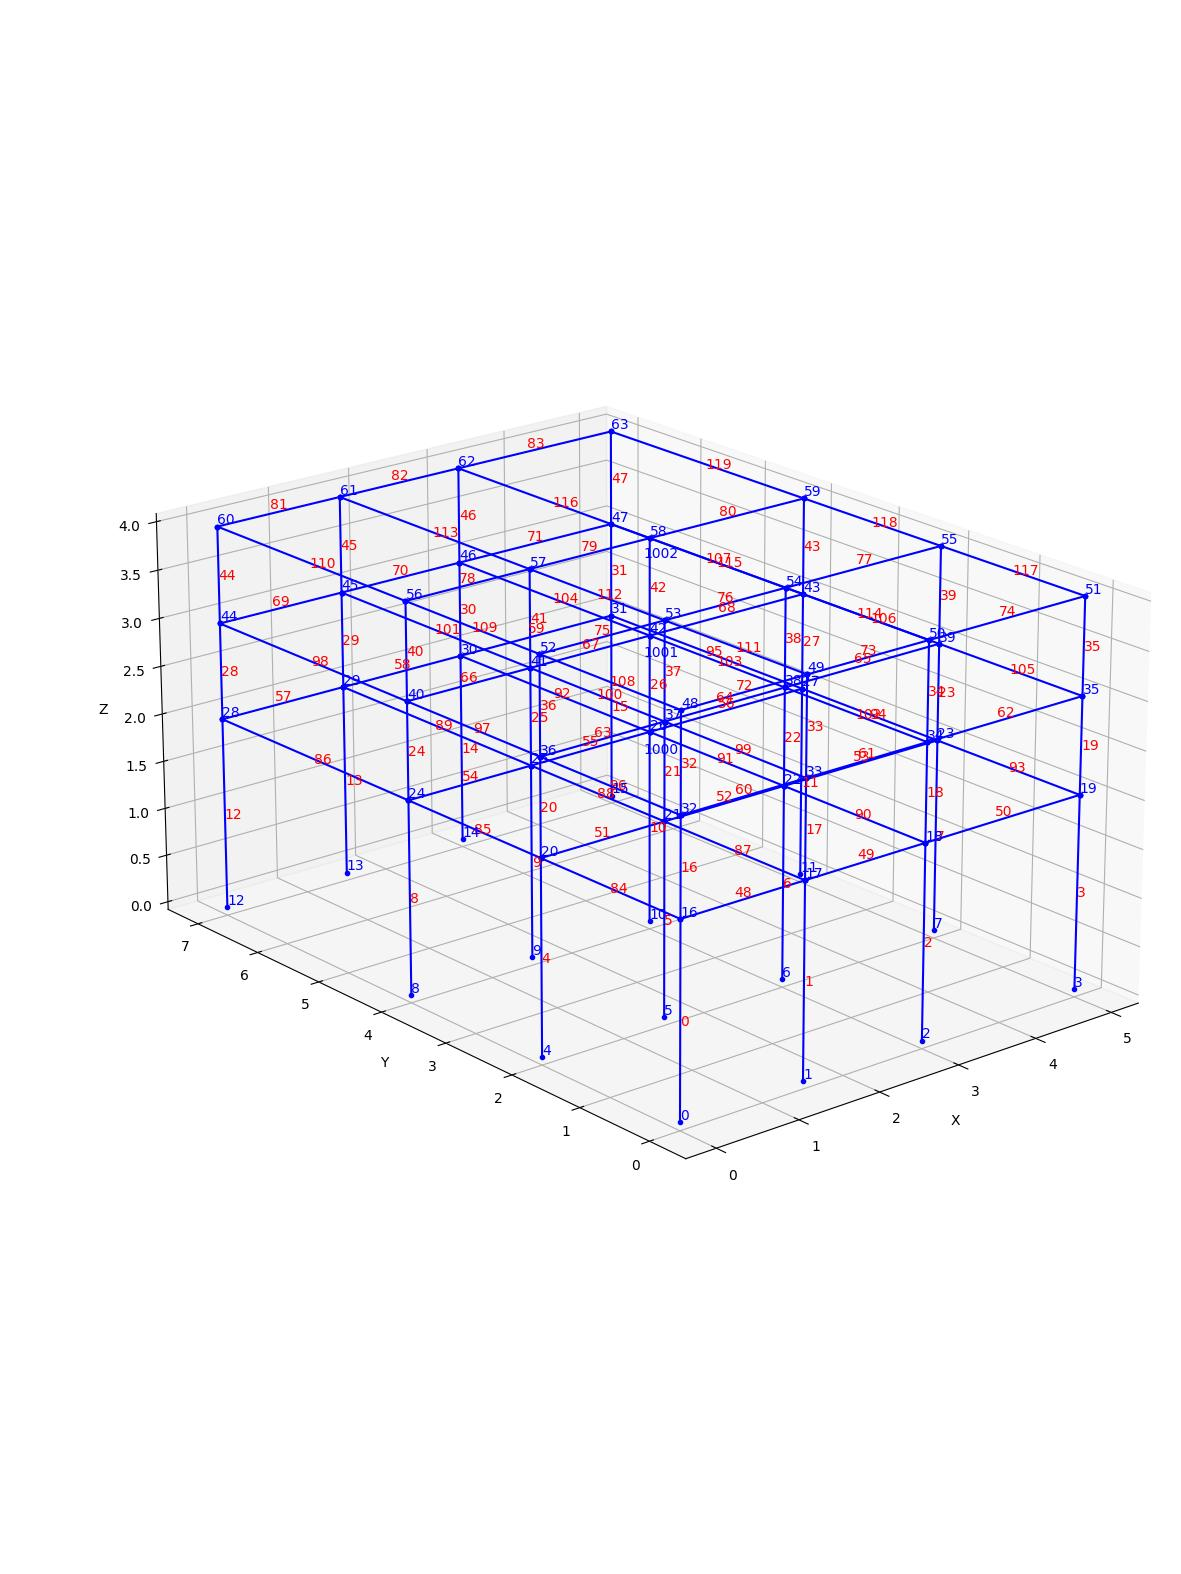
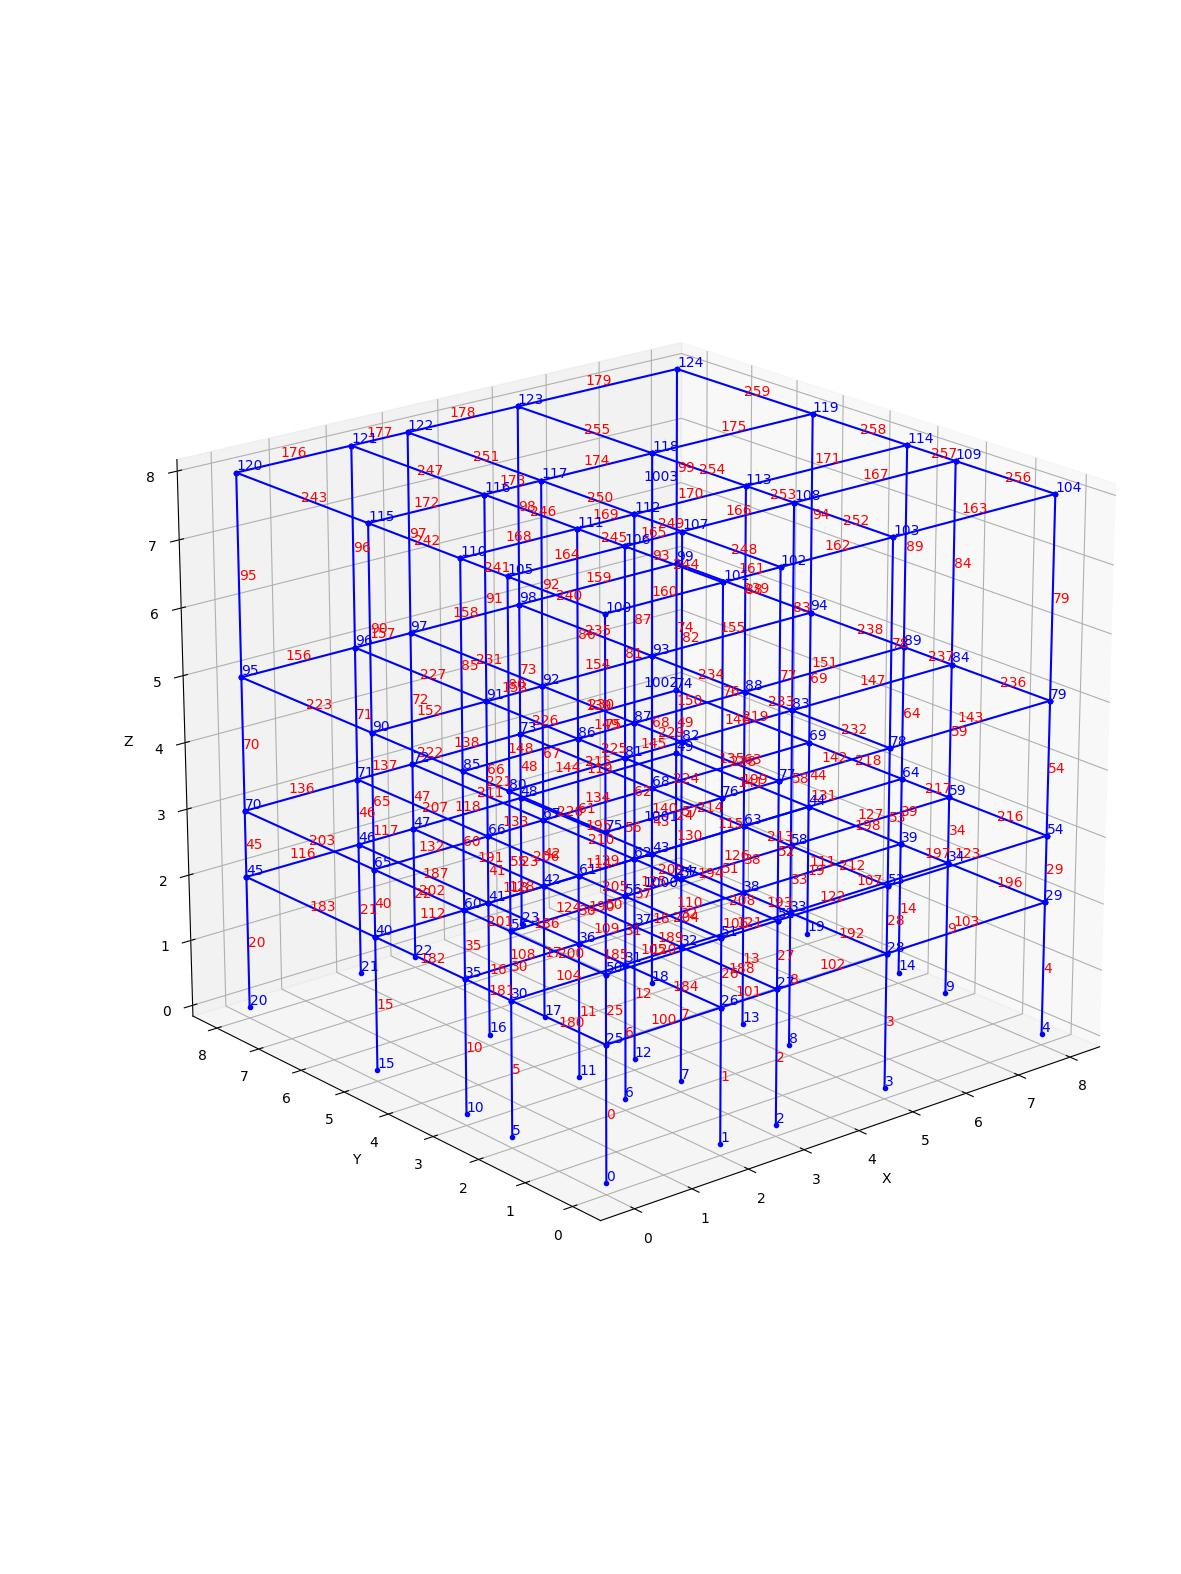
arreglos en condicionales para las grillas

Changed region(s): [[0.1219, 0.2179, 0.945, 0.7783]]

diff --git a/ploteo.py b/ploteo.py
@@ -48,51 +48,64 @@ def GeoModel(df_x, df_y, df_z):
     Lx, Ly, Lz = df_x["Espaciado"].sum(), df_y["Espaciado"].sum(), df_z["Espaciado"].sum()
     NN = (df_x.shape[0])*(df_y.shape[0])*(df_z.shape[0])
     Nodes = zeros((NN,5))
-    # Creando los nodos y asignando coordenadas
-    c = 0
-    for z in range(df_z.shape[0]):
-        for y in range(df_y.shape[0]):
-            for x in range(df_x.shape[0]):
 
-                Nodes[c] = [c, float(df_x["Espaciado"].iloc[:x].sum()), float(df_y["Espaciado"].iloc[:y].sum()), float(df_z["Espaciado"].iloc[:z].sum()), 0.5]
+    len_x = df_x.shape[0]
+    len_y = df_y.shape[0]
+    len_z = df_z.shape[0]    
+    # Creando los nodos y asignando coordenadas 
+    c = 0
+    for z in range(len_z):
+        for y in range(len_y):
+            for x in range(len_x):
+                if (x == 0 or x == len_x - 1) and (y == 0 or y == len_y - 1):
+                    Nodes[c] = [c, df_x["Espaciado"].iloc[:x].sum(), df_y["Espaciado"].iloc[:y].sum(), df_z["Espaciado"].iloc[:z].sum(), 0.25]
+                elif (y == 0 or y == len_x - 1) and (x != 0 or x != len_x - 1): 
+                    Nodes[c] = [c, df_x["Espaciado"].iloc[:x].sum(), df_y["Espaciado"].iloc[:y].sum(), df_z["Espaciado"].iloc[:z].sum(), 0.5]
+                elif (x == 0 or x == len_x - 1) and (y != 0 or y != len_y - 1):
+                    Nodes[c] = [c, df_x["Espaciado"].iloc[:x].sum(), df_y["Espaciado"].iloc[:y].sum(), df_z["Espaciado"].iloc[:z].sum(), 0.5]
+                else:
+                    Nodes[c] = [c, df_x["Espaciado"].iloc[:x].sum(), df_y["Espaciado"].iloc[:y].sum(), df_z["Espaciado"].iloc[:z].sum(), 1]
+            
                 c += 1
 
 
-    Nodes[:(df_x.shape[0])*(df_y.shape[0]),4]=0
+    # primer piso carga en nodos es = Cero
+    Nodes[:(len_x)*(len_y),4]=0
     # print(Nodes)
 
-    NE = ((df_x.shape[0]-1)*(df_y.shape[0])+(df_y.shape[0]-1)*(df_x.shape[0])+(df_x.shape[0])*(df_y.shape[0]))*(df_z.shape[0]-1)
+    NE = ((len_x-1)*(len_y)+(len_y-1)*(len_x)+(len_x)*(len_y))*(len_z-1)
     Elems = zeros((NE,4))
     # # Creando las conexiones de los elementos verticales
     c = 0
-    for i in range((df_z.shape[0]-1)):
-        for j in range(df_y.shape[0]):
-            for k in range(df_x.shape[0]):
-                Elems[c] = [c,c,c+(df_x.shape[0])*(df_y.shape[0]),1]
+    for i in range((len_z-1)):
+        for j in range(len_y):
+            for k in range(len_x):
+                Elems[c] = [c,c,c+(len_x)*(len_y),1]
                 c = c + 1
     # # Creando las conexiones de los elementos horizontales
-    m = (df_x.shape[0])*(df_y.shape[0])
-    for i in range(df_z.shape[0]-1):
-        for j in range(df_y.shape[0]):
-            for k in range(df_x.shape[0]-1):
+    m = (len_x)*(len_y)
+    for i in range(len_z-1):
+        for j in range(len_y):
+            for k in range(len_x-1):
                 Elems[c] = [c,m,m+1,2]
                 m = m + 1
                 c = c + 1
             m = m + 1
     # # Creando las conexiones de los elementos horizontales
     n = 0
-    for i in range(df_z.shape[0]-1):
-        n = n + (df_x.shape[0])*(df_y.shape[0])
-        for j in range(df_x.shape[0]):
-            for k in range(df_y.shape[0]-1):
-                Elems[c] = [c,j+k*(df_x.shape[0])+n,j+(df_x.shape[0])+k*(df_x.shape[0])+n,2]
+    for i in range(len_z-1):
+        n = n + (len_x)*(len_y)
+        for j in range(len_x):
+            for k in range(len_y-1):
+                Elems[c] = [c,j+k*(len_x)+n,j+(len_x)+k*(len_x)+n,2]
                 c = c + 1
     # # Creando centro de diafragmas
-    Diap = zeros((df_z.shape[0]-1, 4))
-    for i in range(df_z.shape[0]-1):
+    Diap = zeros((len_z-1, 4))
+    for i in range(len_z-1):
         Diap[i] = [i+1000, Lx/2.0, Ly/2.0, (df_z["Espaciado"].iloc[:i+1].sum())]
 
     print("S")
+    print(Nodes)
     return Nodes, Elems, Diap
 
 
@@ -135,7 +148,7 @@ def modelamiento_nodos(Nodes, Elems, Diap, df_x):
         if int(Ele[3]) == 1:# 1 Columna
             element('elasticBeamColumn', int(Ele[0]), int(Ele[1]), int(Ele[2]), Ac, E, G, Jxxc, Iyc, Izc, int(Ele[3]),'-mass', ρ*Ac)
         else: # 2 Viga
-            # for x in range(df_x.shape[0]+1):
+            # for x in range(len_x+1):
             element('elasticBeamColumn', int(Ele[0]), int(Ele[1]), int(Ele[2]), Av, E, G, Jxxv, Iyv, Izv, int(Ele[3]),'-mass', ρ*Av*((df_x["Espaciado"].iloc[0:-1].mean())-a)/(df_x["Espaciado"].iloc[0:-1].mean()))
 
     # ------ PLOTEO DEL MODELO ----
@@ -162,9 +175,9 @@ def modelamiento_nodos(Nodes, Elems, Diap, df_x):
 
 
 
-dataframe_x = pd.DataFrame({'Grid':[1,2,3,4], 'Espaciado':[1.5,1.5,2,0]})
-dataframe_y = pd.DataFrame({'Grid':[1,2,3,4], 'Espaciado':[2,2,3,0]})
-dataframe_z = pd.DataFrame({'Grid':[1,2,3,4], 'Espaciado':[2,1,1,0]})
+dataframe_x = pd.DataFrame({'Grid':[1,2,3,4,5], 'Espaciado':[2,1,2,3,0]})
+dataframe_y = pd.DataFrame({'Grid':[1,2,3,4,5], 'Espaciado':[2,1,2,3,0]})
+dataframe_z = pd.DataFrame({'Grid':[1,2,3,4,5], 'Espaciado':[2,1,2,3,0]})
 
 # Nodos del Modelo
 Nodes, Elems, Diap = GeoModel(dataframe_x, dataframe_y, dataframe_z)
